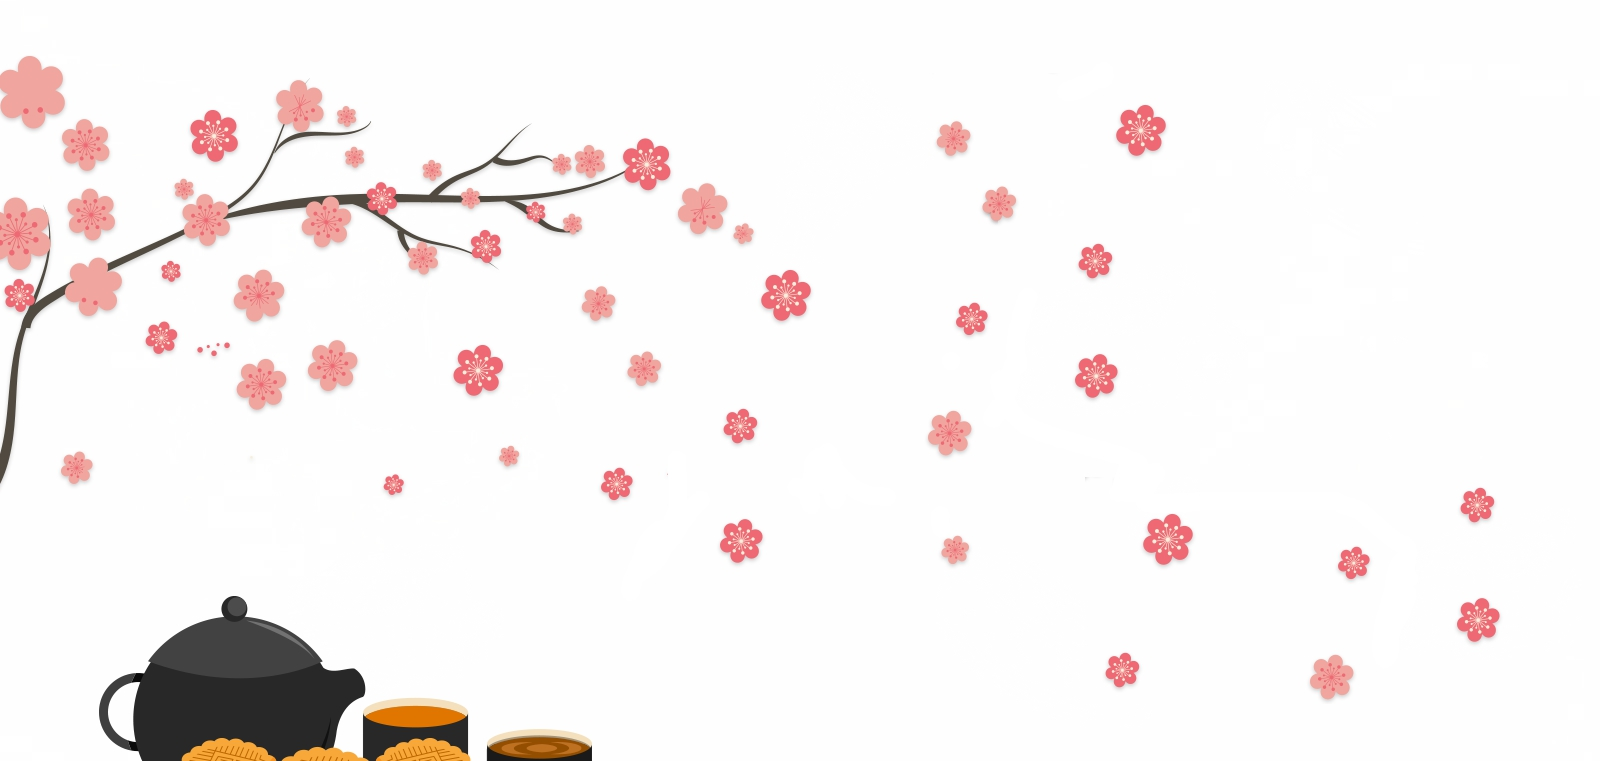
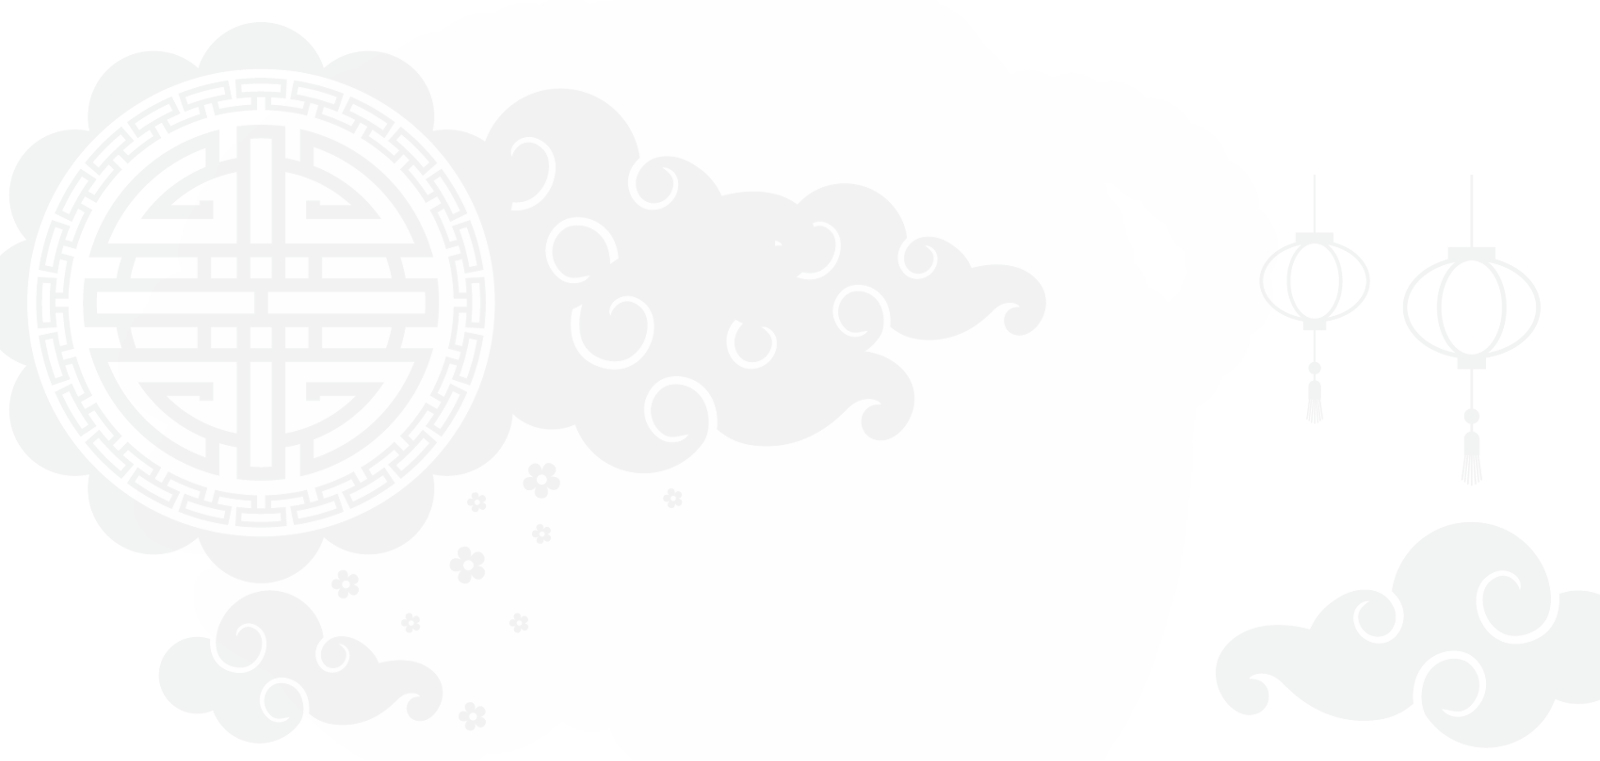
Add files via upload

diff --git a/index.html b/index.html
@@ -30,18 +30,21 @@
 
         <div class="main">
 
-            <div class="men_text">
+            <!-- <div class="men_text">
                 <h1>Taste<span>Moon Cake</span><br>Taste of Family</h1>
 
                 <p>
                     Bánh Trung Thu - không chỉ là một món ăn truyền thống, mà còn là biểu tượng của tình cảm gia đình đậm đà trong văn hóa người Việt. Mỗi năm, khi mùa trăng tròn lại đến, những chiếc bánh Trung Thu đa dạng về hình dáng và hương vị lại trở thành một liên kết quan trọng giữa các thế hệ trong gia đình.
                 </p>
-                <!-- <p>
-                    Bánh Trung Thu không chỉ là một món quà ẩm thực, mà còn mang trong mình ý nghĩa sâu xa về tình thân, tình cảm và sự gắn kết gia đình. Chính nhờ vào nét độc đáo này, bánh Trung Thu đã và vẫn đang là một phần quan trọng trong truyền thống văn hóa Việt, góp phần thắt chặt tình cảm giữa các thế hệ và làm cho mỗi mùa trăng tròn trở nên ý nghĩa hơn bao giờ hết.
-                </p> -->
+
                 <div class="main_btn">
                     <a href="#Order">Order Now</a>
                     <i class="fa-solid fa-angle-right"></i>
+                </div>
+            </div> -->
+            <div class="men_text">
+                <div class="main_image">
+                    <img src="image\BGR\Left 1.png">
                 </div>
             </div>
             <div class="men_text">
@@ -828,7 +831,7 @@
             <img src="image\Icon\Zalo'.png" alt="">
         </a>
         </li>
-        <li> <a href="tel:0866099156" target="_blank"> 
+        <li> <a href="tel:0995079999" target="_blank"> 
             <img class="hotline" src="image\Icon\Hotline.png" alt="">
         </a>
         </li>
@@ -857,8 +860,8 @@
 
             <div class="footer_tag">
                 <h2>Contact</h2>
-                <p>+84 866099156</p>
-                <p>nnguyencong1507@gmail.com</p>
+                <p>+84 995079999</p>
+                <!-- <p>nnguyencong1507@gmail.com</p> -->
             </div>
 
             <div class="footer_tag">
